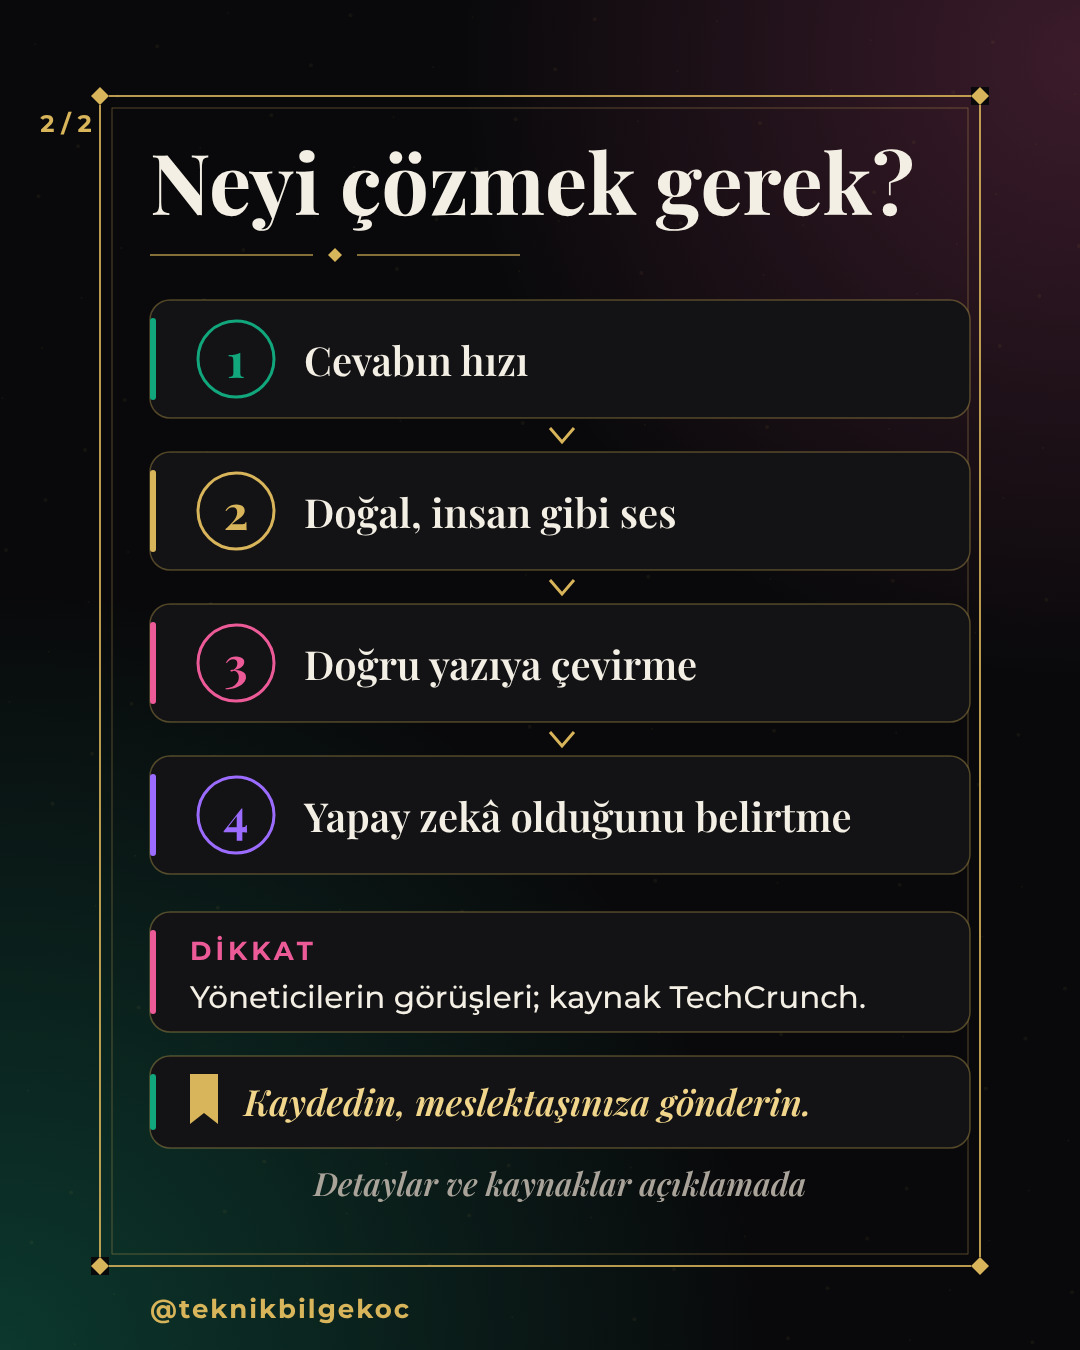
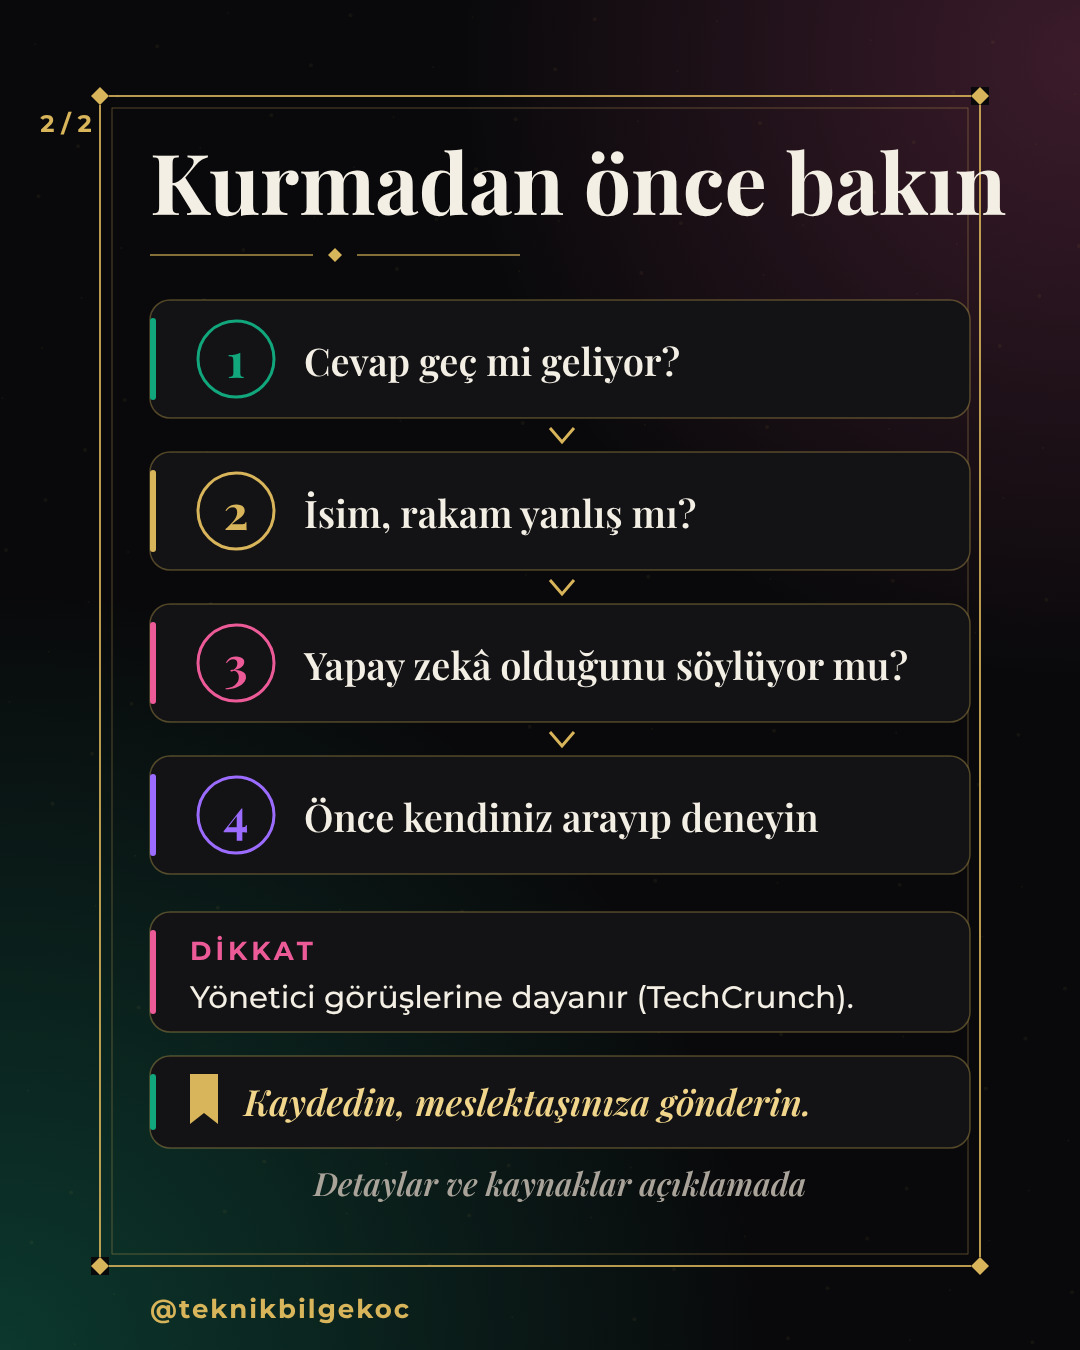
12 Ekim v3: kimlik kancası ve fayda odaklı yeniden yazım (taslak)
Claude-Session: https://claude.ai/code/session_013cfyo3RWBSu7N5CwDk35tK

diff --git a/2026-10-12-v3/s2.js b/2026-10-12-v3/s2.js
@@ -1,22 +1,22 @@
 // Şema sayfası (2 / 2): haberi/ipucunu adım adım gösteren diyagram + dikkat notu + kaydet çağrısı. Detaylar caption'da.
 async function build() {
   await fontsReady(); paper('pink'); footer('2 / 2');
-  serif('Neyi çözmek gerek?', 150, 215, { size: 84 });
+  serif('Kurmadan önce bakın', 150, 215, { size: 84 });
   divider(150, 520, 255);
-  const steps = [['Cevabın hızı', C.emerald], ['Doğal, insan gibi ses', C.gold], ['Doğru yazıya çevirme', C.pink], ['Yapay zekâ olduğunu belirtme', C.purple]];
+  const steps = [['Cevap geç mi geliyor?', C.emerald], ['İsim, rakam yanlış mı?', C.gold], ['Yapay zekâ olduğunu söylüyor mu?', C.pink], ['Önce kendiniz arayıp deneyin', C.purple]];
   let y = 300;
   steps.forEach(([s, c], i) => {
     card(150, y, 820, 118, c);
     el('circle', { cx: 236, cy: y + 59, r: 38, fill: 'none', stroke: c, 'stroke-width': 3 });
     serif(String(i + 1), 236, y + 78, { size: 48, color: c, anchor: 'middle' });
-    serif(s, 304, y + 76, { size: 40, weight: 600, color: C.ivory });
+    serif(s, 304, y + 76, { size: 38, weight: 600, color: C.ivory });
     if (i < 3) el('path', { d: `M550 ${y + 128} l12 14 l12 -14`, fill: 'none', stroke: C.gold, 'stroke-width': 3 });
     y += 152;
   });
   // dikkat notu
   card(150, y + 4, 820, 120, C.pink);
   text('DİKKAT', 190, y + 52, { size: TS.label, weight: 700, color: C.pink, ls: 4 });
-  text('Yöneticilerin görüşleri; kaynak TechCrunch.', 190, y + 100, { size: 31, color: C.ivory });
+  text('Yönetici görüşlerine dayanır (TechCrunch).', 190, y + 100, { size: 31, color: C.ivory });
   // kaydet çağrısı
   card(150, y + 148, 820, 92, C.emerald);
   el('path', { d: `M190 ${y + 166} h28 v50 l-14 -11 l-14 11 z`, fill: C.gold });

diff --git a/2026-10-12-v3/s1.js b/2026-10-12-v3/s1.js
@@ -1,11 +1,11 @@
 async function build() {
   await fontsReady(); paper('purple'); footer('1 / 2');
   profil(150, 124, 112);
-  chip('SESLİ YAPAY ZEKA · 11 EKİM 2026', 150, 292, C.gold);
+  chip('SESLİ ASİSTAN · 11 EKİM 2026', 150, 292, C.gold);
 
-  serif('Sesli yapay zeka', 150, 410, { size: 84, color: C.ivory });
-  serif('henüz ChatGPT', 150, 496, { size: 84, color: C.goldHi });
-  serif('anını yaşamadı', 150, 582, { size: 84, color: C.ivory, italic: true, weight: 600 });
+  serif('Aramaları yapay zeka', 150, 410, { size: 80, color: C.ivory });
+  serif('karşılasa müşteri', 150, 494, { size: 80, color: C.goldHi });
+  serif('fark eder mi?', 150, 578, { size: 80, color: C.ivory, italic: true, weight: 600 });
 
   sahneTek(170, 620, 780, 490, { figur: 'kadin', tip: 'basortulu', zemin: 'lacivert', halo: 'kaleydoskop', olcek: 1.7, dy: 90,
     ek: (cx, cy) => {
@@ -18,8 +18,8 @@ async function build() {
     } });
 
   card(150, 1136, 820, 112, C.pink);
-  serif('Müşteriniz aradığında', 190, 1190, { size: 38, weight: 600, italic: true, color: C.ivory });
-  serif('karşısında robot mu var?', 190, 1236, { size: 38, weight: 600, italic: true, color: C.goldHi });
+  serif('Sektör yöneticileri anlatıyor:', 190, 1190, { size: 38, weight: 600, italic: true, color: C.ivory });
+  serif('sesli asistanın 3 zayıf noktası var', 190, 1236, { size: 38, weight: 600, italic: true, color: C.goldHi });
   text('kaydır →', 950, 1318, { size: 52, font: 'Caveat', weight: 700, color: C.gold, anchor: 'end' }).dataset.free = 1;
   done();
 }
